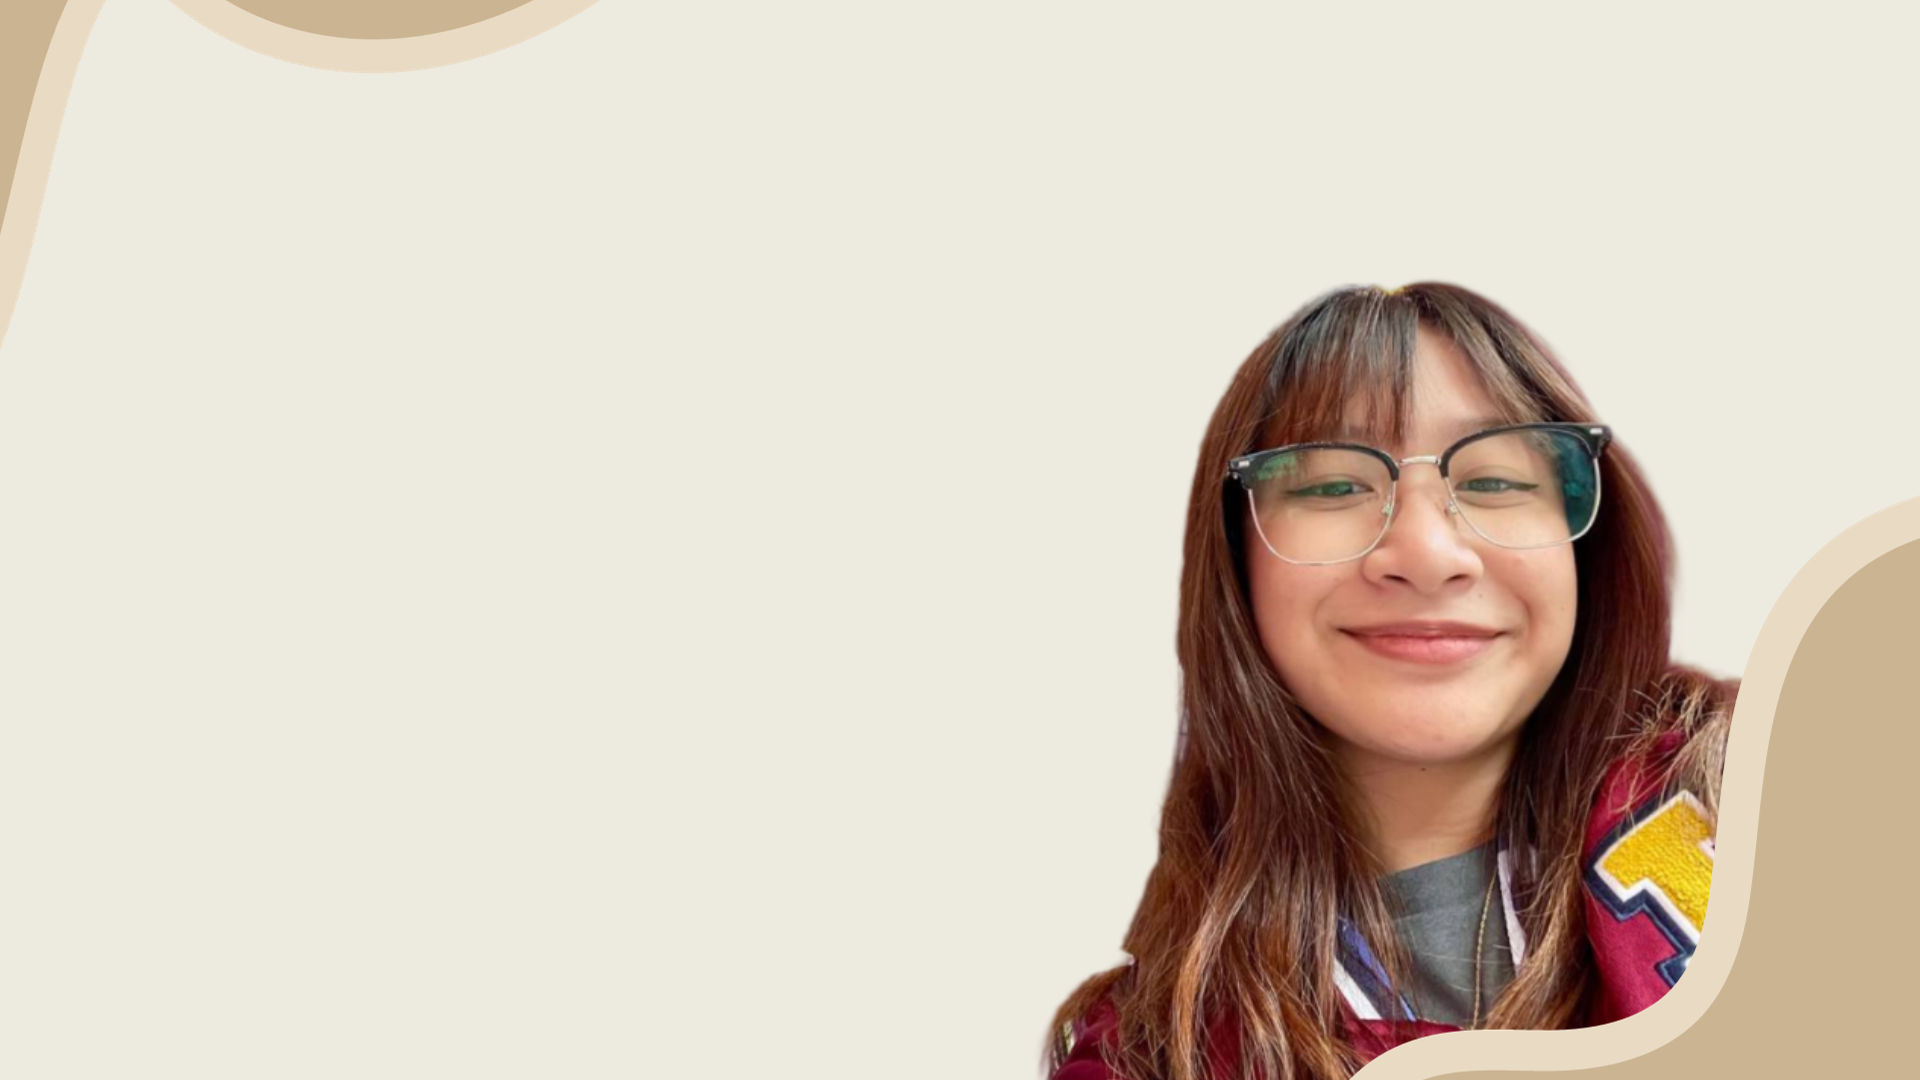
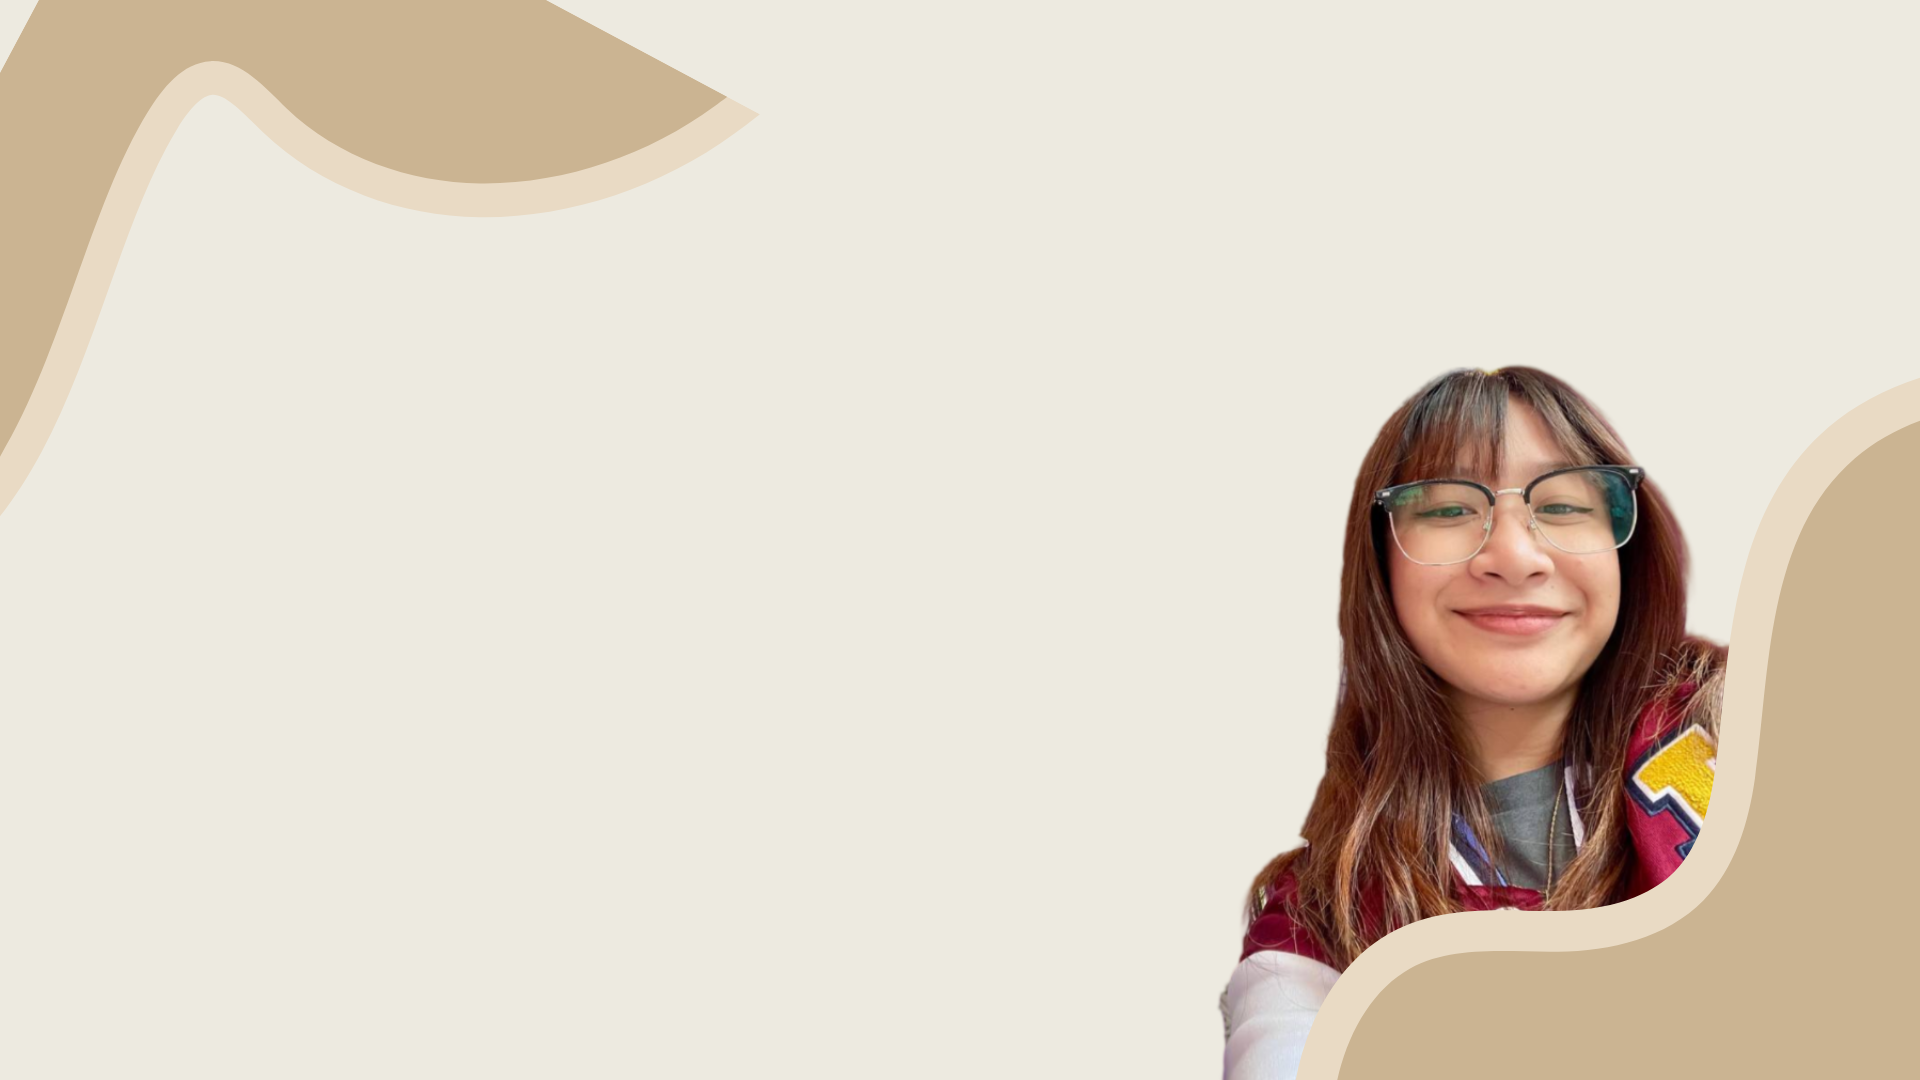
finished services section

Changed region(s): [[0.5312, 0.2444, 1.0, 1.0], [0.0, 0.0, 0.4062, 0.4583]]

diff --git a/index.html b/index.html
@@ -6,6 +6,7 @@
     <meta name="viewport" content="width=device-width, initial-scale=1.0">
     <title>My Personal Website</title>
     <link rel="stylesheet" href="style.css">
+    <script src="https://kit.fontawesome.com/ab494eb231.js" crossorigin="anonymous"></script>
 </head>
 <body>
 
@@ -50,9 +51,17 @@
                     </p>
 
                     <div class="tab-titles">
-                        <p class="tab-links active-link" onclick="opentab('languages')">LANGUAGES</p>
                         <p class="tab-links" onclick="opentab('education')">EDUCATION</p>
+                        <p class="tab-links active-link" onclick="opentab('languages')">LANGUAGES</p>
                         <p class="tab-links" onclick="opentab('skills')">SKILLS</p>
+                    </div>
+
+                    <div class="tab-contents" id="education"> <!--EDUCATION-->
+                        <ul>
+                            <li><span>2022-2026</span><br>Computer Science at Mapua Malayan Colleges Laguna</li>
+                            <li><span>2020-2022</span><br>Senior Highschool at Lyceum Of Alabang</li>
+                            <li><span>2016-2020</span><br>Junior Highschool at Lyceum Of Alabang</li>
+                        </ul>
                     </div>
 
                     <div class="tab-contents active-tab" id="languages"> <!--LANGUAGES-->
@@ -62,14 +71,6 @@
                             <li>CSS</li>
                             <li>Python</li>
                             <li>Javascript</li>
-                        </ul>
-                    </div>
-
-                    <div class="tab-contents" id="education"> <!--EDUCATION-->
-                        <ul>
-                            <li><span>2022-2026</span><br>Computer Science at Mapua Malayan Colleges Laguna</li>
-                            <li><span>2020-2022</span><br>Senior Highschool at Lyceum Of Alabang</li>
-                            <li><span>2016-2020</span><br>Junior Highschool at Lyceum Of Alabang</li>
                         </ul>
                     </div>
 
@@ -84,6 +85,56 @@
             </div>
         </div>
     </div>
+
+<!--------------------------------------------------------------SERVICES----------------------------------------------------------------->
+
+    <div id="services">
+        <div class="container">
+            <h1 class="subtitle">My Services</h1>
+            <div class="services-list">
+                <div>
+                    <center><span><i class="fa-solid fa-laptop-code"></i></span></center>
+                    <h2>UI/UX Design</h2>
+                    <p>Transforming visions into intuitive, visually captivating digital experiences, My UI/UX
+                        design service crafts seamless interfaces that delight users and elevate brands to new
+                        heights.With a meticulous attention to detail and a deep understanding of user behavior,
+                        I strive to create designs that not only look aesthetically pleasing but also enhance
+                        usability and drive user engagement.</p>
+                </div>
+
+                <div>
+                    <center><span><i class="fa-regular fa-window-restore"></i></span></center>
+                    <h2>Web Development</h2>
+                    <p>I specialize in web development, crafting responsive and dynamic websites that are
+                        tailored to meet your specific needs. From front-end design to back-end functionality,
+                        I am dedicated to delivering high-quality code and seamless user experiences that bring
+                        your ideas to life.</p>
+                </div>
+
+                <div>
+                    <center><span><i class="fa-solid fa-headset"></i></span></center>
+                    <h2>Game Development</h2>
+                    <p>From conceptualization to implementation, I weave together captivating narratives,
+                        stunning visuals, and interactive gameplay mechanics to create unforgettable gaming
+                        experiences that transport players to extraordinary worlds. With a passion for pushing
+                        boundaries and a commitment to excellence, I am dedicated to crafting games that captivate
+                        and inspire players worldwide.</p>
+                </div>
+            </div>
+        </div>
+    </div>
+
+<!-------------------------------------------------------------PORTFOLIO----------------------------------------------------------------->
+    <div id="portfolio">
+        <div class="container">
+            <h1 class="subtitle">My Works</h1>
+        </div>
+    </div>
+
+
+
+
+
 
     <script>
         var tablinks = document.getElementsByClassName("tab-links");
@@ -103,10 +154,5 @@
         }
 
     </script>
-
-
-
-
-
 </body>
 </html> 

diff --git a/style.css b/style.css
@@ -1,7 +1,7 @@
 * { 
     margin: 0;
     padding: 0;
-    font-family: "Helvetica", sans-serif;
+    font-family: "Montserrat", sans-serif;
     box-sizing: border-box;
 }
 
@@ -15,7 +15,7 @@ body {
 #header {
     width: 100%;
     height: 100vh;
-    background-image: url(images/background\ 3.png);
+    background-image: url(images/background.png);
     background-size: cover;
     background-position: center;
 }
@@ -87,6 +87,7 @@ nav ul li a:hover::after {
 .header-text h1 {
     font-size: 60px;
     margin-bottom: 5px;
+
     color: #727272;
     
 }
@@ -127,13 +128,11 @@ nav ul li a:hover::after {
     font-size: 60px;
     font-weight: 600;
     padding-bottom: 5px;
-    font-family: "Helvetica", sans-serif;
 }
 
 .description {
-    font-size: 18px;
-    color: #727272;
-    font-family: "Montserrat", sans-serif;
+    font-size: 16px;
+    color: #5a5a5a;
 }
 
 .tab-titles {
@@ -158,18 +157,18 @@ nav ul li a:hover::after {
     position: absolute;
     left: 0;
     bottom: -8px;
-    transition: 0.5s;
+    transition: 0.4s;
 
 }
 
 .tab-links.active-link::after {
-    width: 50%;
+    width: 60%;
 }
 
 .tab-contents ul li {
     list-style: none;
     margin: 10px 0;
-    color: #727272;
+    color: #5a5a5a;
     font-family: "Montserrat", sans-serif;
     font-size: 18px;
 }
@@ -189,4 +188,56 @@ nav ul li a:hover::after {
     display: block;
 }
 
+/*--------------------------------------------------------------SERVICES-----------------------------------------------------------------*/
 
+#services {
+    padding: 30px 0;
+    color: #b39871;
+}
+
+.services-list {
+    display: grid;
+    grid-template-columns: repeat(auto-fit, minmax(250px, 1fr));
+    grid-gap: 40px;
+    margin-top: 50px;
+    color: #5a5a5a;
+    
+}
+
+.services-list span {
+    color: #BD9458;
+}
+
+.services-list div {
+    background: #efe3d4;
+    border-radius: 15px;
+    padding: 40px;
+    font-size: 13px;
+    font-weight: 300;
+    transition: background 0.5s, transform 0.5s;
+}
+
+.services-list h2 {
+    color: #727272;
+    padding-bottom: 5px;
+}
+
+.services-list p {
+    font-size: 14px;
+}
+
+.services-list div i {
+    font-size: 50px;
+    margin-bottom: 30px;
+}
+
+.services-list div:hover {
+    background: #E9DAC4;
+    transform: translateY(-10px);
+}
+
+/*-------------------------------------------------------------PORTFOLIO-----------------------------------------------------------------*/
+
+#portfolio {
+    padding: 50px 0;
+}
